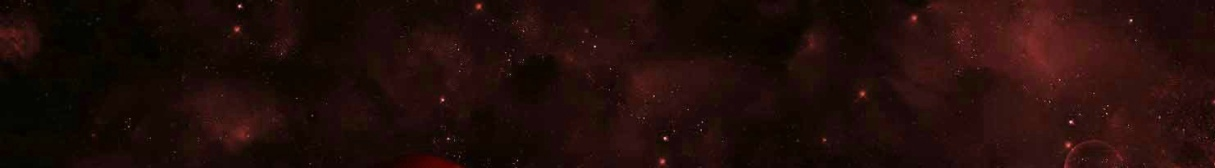
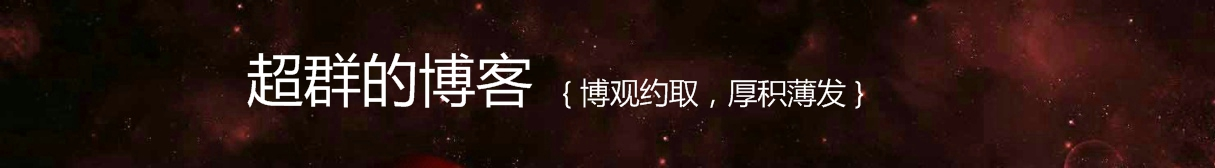
modified:   source/_includes/custom/header.html 	modified:   source/_layouts/default.html 	modified:   source/images/h1.jpg 	source/images/h0.jpg

Changed region(s): [[0.1827, 0.2976, 0.7309, 0.6548]]

diff --git a/source/_layouts/default.html b/source/_layouts/default.html
@@ -1,7 +1,7 @@
 {% capture root_url %}{{ site.root | strip_slash }}{% endcapture %}
 {% include head.html %}
 <body {% if page.body_id %} id="{{ page.body_id }}" {% endif %} {% if page.sidebar == false %} class="no-sidebar" {% endif %} {% if page.sidebar == 'collapse' or site.sidebar == 'collapse' %} class="collapse-sidebar sidebar-footer" {% endif %}>
-  <header role="banner" style="background:url(/images/h1.jpg)">{% include header.html %}</header>
+  <header role="banner" style="height:92px;background:url(/images/h1.jpg)">{% include header.html %}</header>
   <nav role="navigation">{% include navigation.html %}</nav>
   <div id="main">
     <div id="content">

diff --git a/source/_includes/custom/header.html b/source/_includes/custom/header.html
@@ -1,6 +1,1 @@
-<hgroup>
-  <h1><a href="{{ root_url }}/">{{ site.title }}</a></h1>
-  {% if site.subtitle %}
-    <h2>{{ site.subtitle }}</h2>
-  {% endif %}
-</hgroup>
+<hgroup style="height:100px" onmouseover="this.style.cursor='pointer'" onclick="document.location='{{ root_url }}/';"></hgroup>
